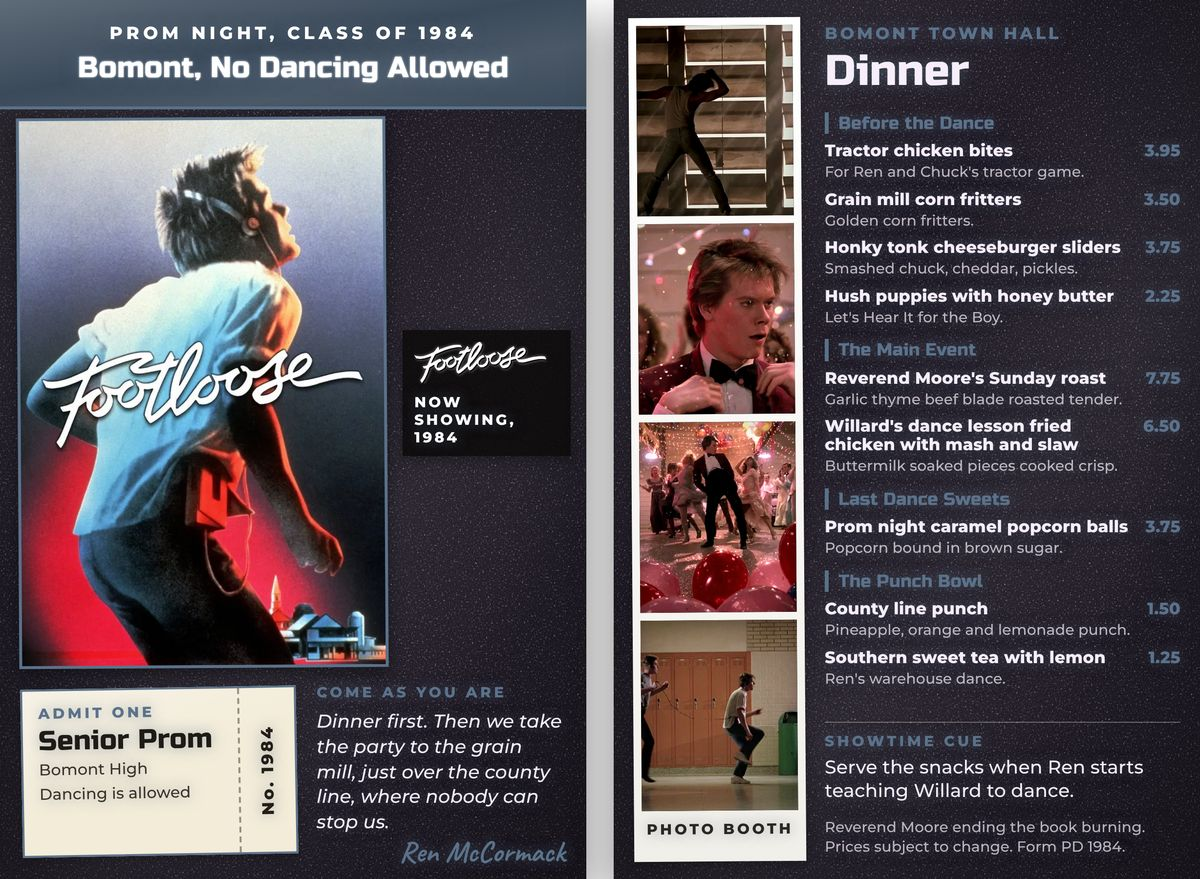
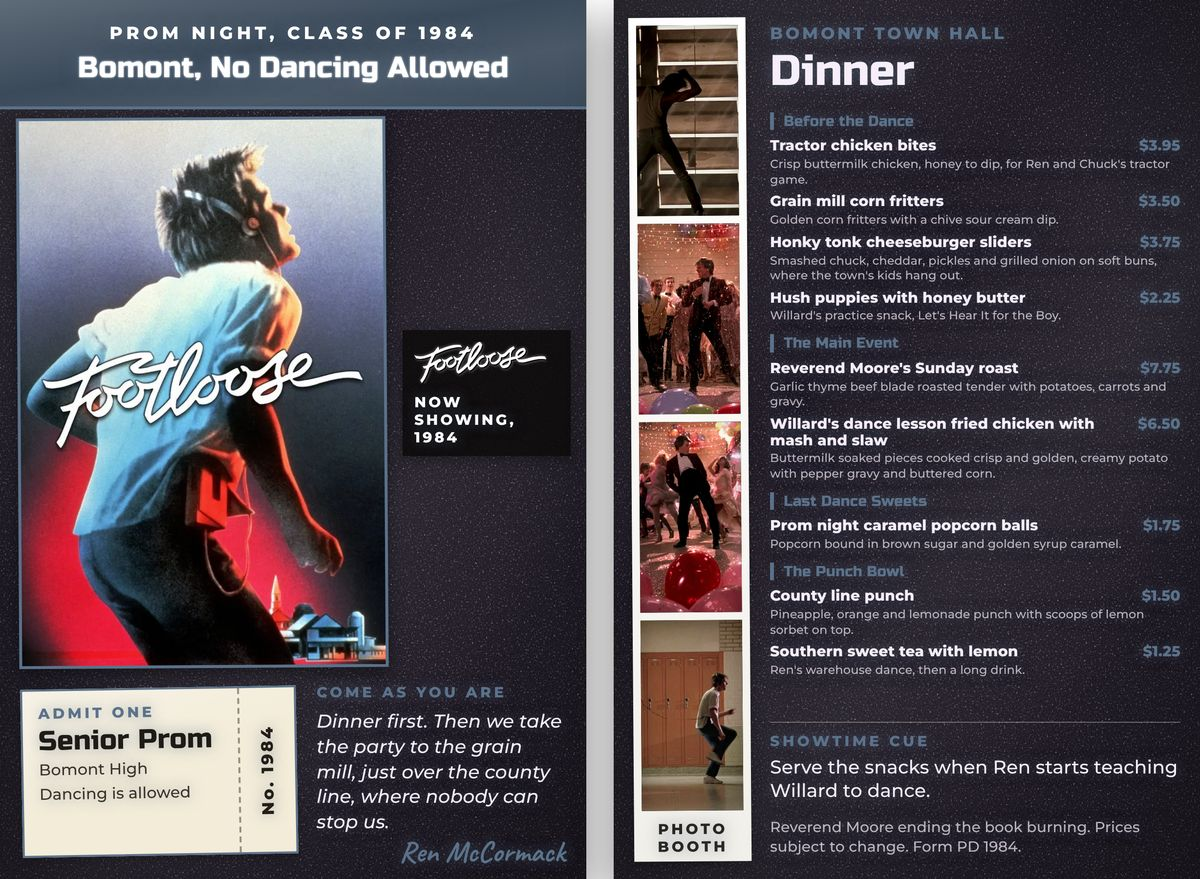
Review 32: prom prints full notes (narrower booth strip, smaller note floor)
Claude-Session: https://claude.ai/code/session_01W3UAnF3374TxihYSznsWKE

Changed region(s): [[0.5242, 0.0, 0.9867, 0.9829], [0.9558, 0.7372, 0.9867, 0.7679]]

diff --git a/menu-formats/prom.js b/menu-formats/prom.js
@@ -327,7 +327,9 @@ window.MENU_FORMATS[ID]=ctx=>{
   const front=`<div style="position:absolute;inset:0;background:${bg};${fp}">${banner}${heroHtml}${ticket}${noteHtml}${PMq?"":frontFine}</div>`;
 
   /* ===== BACK ===== */
-  const SX=18,SW=176,STY=18,STH=H-36;
+  /* review 32: a long menu gets a narrower photo booth strip, so the full notes have the width */
+  const TL=["s","m","w","d"].reduce((a,k)=>a+((ctx.menu||{})[k]||[]).filter(i=>i&&i.n).slice(0,4).reduce((b,it)=>b+String(it.n||"").length+String(it.note||"").length+12,0),0);
+  const SX=18,SW=TL>760?120:TL>600?136:TL>480?152:176,STY=18,STH=H-36;
   const fh=Math.floor((STH-16-44-3*8)/4);
   const strip=`<div style="position:absolute;left:${SX}px;top:${STY}px;width:${SW}px;height:${STH}px;background:linear-gradient(180deg,#ffffff,#f1efe9);box-shadow:0 3px 10px rgba(0,0,0,.28);transform:rotate(${(T.tilt*.35).toFixed(2)}deg);padding:8px 8px 0;box-sizing:border-box">
       ${booth.map(b=>`<div style="margin-bottom:8px">${photo(b.src,SW-16,fh,{filter:`${E.booth} ${T.photo}`,poster:b.poster,pos:"50% 30%",vig:20,last:poster?img(poster,"w500"):""})}</div>`).join("")}
@@ -371,8 +373,10 @@ const numPrice=(!String(fl.number||"").replace(/\D/g,"")||/^(18|19|20)\d\d$/.tes
   const measure=FS=>{const h=domH(menuFor(FS),RW);return h==null?est(FS):h*1.04};
   let FS=null;
   /* the film's notes come first: try every size with two-line then one-line notes before any size without them */
-  outer:for(const nl of [2,1,0]){for(let s=1.07;s>=(nl?.6:.55);s-=.05){
-    const base={D:Math.max(17,Math.round(28*s)),N:Math.max(15,Math.round(21*s)),S:Math.max(18,Math.round(26*s)),G:Math.max(4,Math.round(14*s))};
+  /* review 32 (Josh: room for full notes, not cuts): whole notes (up to four lines) at every size first, then the two and one-line cuts */
+  outer:for(const nl of [4,2,1,0]){for(let s=1.07;s>=(nl===4?.42:nl?.6:.55);s-=.05){
+    /* the page is 600 across for an A4 sheet, so 12px notes still print at about 12 point */
+    const base={D:Math.max(nl===4?14:17,Math.round(28*s)),N:Math.max(nl===4?12:15,Math.round(21*s)),S:Math.max(nl===4?15:18,Math.round(26*s)),G:Math.max(nl===4?3:4,Math.round(14*s))};
     {const FSx=Object.assign({},base,{nl});const t=measure(FSx);if(t<=MH){FS=Object.assign(FSx,{t});break outer}}
   }
     /* 15 Nov: before any size without notes, one-line notes at 13px under 16 or 15px names (Barbie and other nine-dish menus) */
